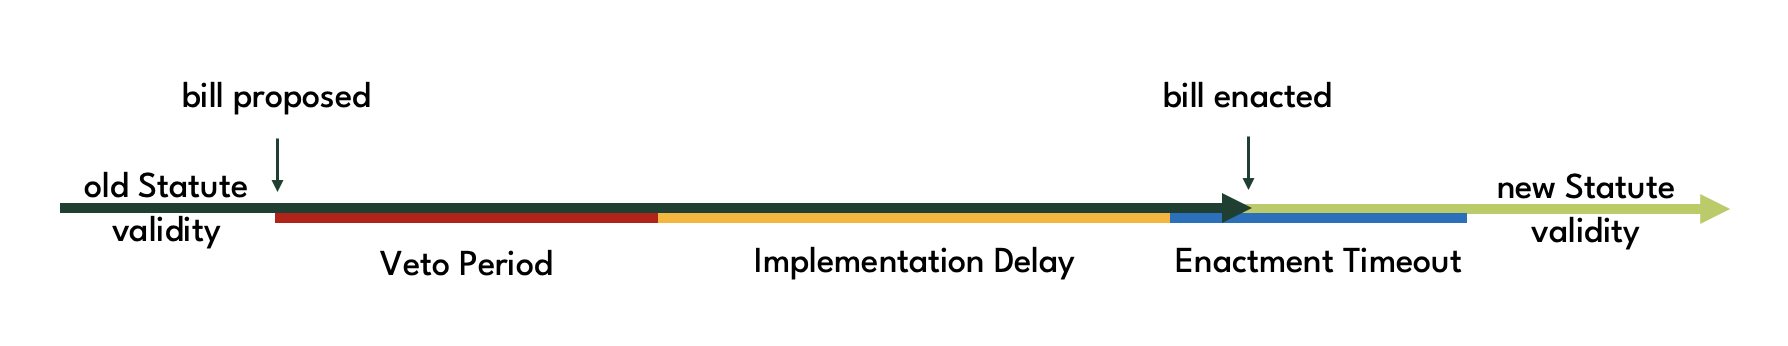
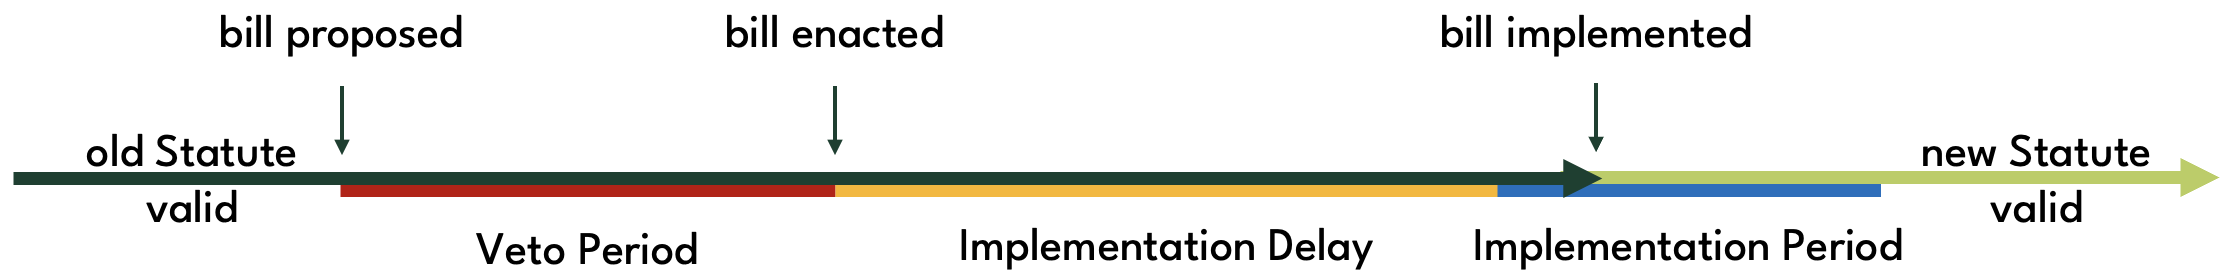
terminology updates

diff --git a/docs/technical-manual/announcers.md b/docs/technical-manual/announcers.md
@@ -10,9 +10,9 @@ sidebar_position: 381
 
 Announcer Prices are used to update the **Oracle price**. Each such update requires a minimum of **M-of-N** Announcer Price announcements from distinct Announcers that have been **approved** by governance.
 
-Announcers are also referred to as **Atom Announcers** because they are designed to announce a single [atom](https://chialisp.com/chialisp-primer/intro/#atoms) value. The atom value is stored in the ATOM_VALUE curried arg of the Announcer puzzle. In the case of Circuit protocol, the atom value is the Announcer Price.
+Announcers are also referred to as **Atom Announcers** because they are designed to announce a single [atom](https://chialisp.com/chialisp-primer/intro/#atoms) value. The atom value is stored in the `VALUE` curried arg of the Announcer puzzle. In the case of Circuit protocol, the atom value is the Announcer Price.
 
-Data providers must update the Announcer Price regularly. Otherwise the Announcer Price can **expire**, and the Announcer gets penalized. An Announcer Price is said to be expired if the TIMESTAMP_EXPIRES curried arg lies in the past. TIMESTAMP_EXPIRES is updated to the current time plus DELAY whenever the Announcer Price is updated. DELAY is a curried arg that can be set to any value less than or equal to [**Announcer Price TTL**](../../user-guide/price-oracle) by the Announcer's data provider. The Announcer Price is best updated using the mutate operation. It is best practice to also update the Announcer Price as part of a configure operation.
+Data providers must update the Announcer Price regularly. Otherwise the Announcer Price can **expire**, and the Announcer gets penalized. An Announcer Price is said to be expired if the `TIMESTAMP_EXPIRES` curried arg lies in the past. `TIMESTAMP_EXPIRES` is updated to the current time plus `VALUE_TTL` whenever the Announcer Price is updated. `VALUE_TTL` is a curried arg that can be set to any value less than or equal to [**Announcer Price TTL**](../../user-guide/price-oracle) by the Announcer's data provider. The Announcer Price is best updated using the mutate operation. It is best practice to also update the Announcer Price as part of a configure operation.
 
 
 ## Governance considerations
@@ -89,8 +89,8 @@ State variables (curried args) that can be updated in this way are:
 * ```INNER_PUZZLE_HASH```: the inner puzzle determines how the Announcer can be spent
 * ```APPROVED```: indicates whether the Announcer is approved
 * ```DEPOSIT```: the amount of the Announcer coin, which is used as a deposit that can be slashed under certain circumstances
-* ```DELAY```: number of seconds for which an updated price is valid. used to calculate the expiry timestamp, TIMESTAMP_EXPIRES <!--(TODO: rename to TTL)-->
-* ```ATOM_VALUE```: XCH/USD price published by data provider
+* ```VALUE_TTL```: number of seconds for which an updated price is valid. used to calculate the expiry timestamp, `TIMESTAMP_EXPIRES`
+* ```VALUE```: atom value to be announced. an integer representing the XCH/USD market price
 
 Changing the inner puzzle hash can be used to transfer the Announcer.
 
@@ -98,7 +98,7 @@ An approved Announcer can be unilatally disapproved by its data provider. Before
 
 The **deposit** is the amount of the Announcer coin. In case of an approved Announcer, the data provider must keep the deposit at or above the **Minimum Deposit**. The deposit can be slashed by keepers under certain circumstances. See [penalize](../announcers#penalize) for more details. The configure operation allows data providers to increase or decrease the deposit. Since the deposit is slashable, it is generally recommended to not exceed the Minimum Deposit by a large amount. However, a small excess on top of the Minimum Deposit can reduce costs for well-behaved Announcers as it can be used to pay for transaction fees, making a separate fee coin spend unnecessary. If governance votes to increase the Minimum Deposit, data providers should top up their deposit in a timely manner to avoid getting penalized.
 
-The **Announcer Price TTL** Statute indicates how long an Announcer Price that's just been updated may be valid for at most. The actual validity period of an Announcer is stored in the ```DELAY``` curried arg. In practice, the only reason why an Announcer would use a shorter than necessary validity period is in case of a governance vote to reduce the Announcer Price TTL. This allows Announcers to prepare for the new Statute value ahead of time and avoid getting penalized for an expired Announcer Price upon enactment of the reduced Announcer Price TTL.
+The **Announcer Price TTL** Statute indicates how long an Announcer Price that's just been updated may be valid for at most. The actual validity period of an Announcer's price is stored in the ```VALUE_TTL``` curried arg. In practice, the only reason why an Announcer would use a shorter than necessary validity period is in case of a governance vote to reduce the Announcer Price TTL. This allows Announcers to prepare for the new Statute value ahead of time and avoid getting penalized for an expired Announcer Price upon implementation of the reduced Announcer Price TTL.
 
 If desired, the Announcer Price may also be updated in a configure operation.
 
@@ -109,8 +109,8 @@ Lastly, it is possible to **melt** an unapproved Announcer using the configure o
 * ```INNER_PUZZLE_HASH```: can be set to desired value
 * ```APPROVED```: can be set to nil
 * ```DEPOSIT```: see amount
-* ```DELAY```: can be set to any value smaller than Announcer Price TTL. <!--(TODO: rename to TTL)-->
-* ```ATOM_VALUE```: can be set to any atom value. should be XCH/USD market price
+* ```VALUE_TTL```: can be set to any value smaller than Announcer Price TTL
+* ```VALUE```: atom value to be announced. an integer representing the XCH/USD market price
 * ```MIN_DEPOSIT```: can be set to any value greater than Minimum Deposit
 * ```COOLDOWN_START```: set by puzzle
 * ```TIMESTAMP_EXPIRES```: set by puzzle
@@ -152,10 +152,10 @@ An Announcer is penalized by applying the **Penalty Factor** to the Announcer's 
 
 Keepers can penalize approved Announcers in the following circumstances:
 * Announcer Price is expired, ie current time is greater than ```TIMESTAMP_EXPIRES```
-* ```DELAY``` is greater than Announcer Price TTL Statue <!--(TODO: rename DELAY to TTL?)-->
+* ```VALUE_TTL``` is greater than Announcer Price TTL Statue
 * ```DEPOSIT``` is smaller than Minimum Deposit
 
-The second and third cases above are designed to incentivize data providers to keep the configuration of their respective Announcers in line with Announcer Price TTL and Minimum Deposit whenever these Statutes are updated by governance. In practice, it is recommended that Announcer configurations are updated well in advance of Statute enactment, in order to minimize the risk of missing the dealine and incurring penalties.
+The second and third cases above are designed to incentivize data providers to keep the configuration of their respective Announcers in line with Announcer Price TTL and Minimum Deposit whenever these Statutes are updated by governance. In practice, it is recommended that Announcer configurations are updated well in advance of the Implementation Period, in order to minimize the risk of missing the dealine and incurring penalties.
 
 A penalization can occur at most once per **Penalty Interval** (STATUTE_ANNOUNCER_PENALTY_INTERVAL_MINUTES). Since keepers will be competing to penalize Announcers, it can generally be expected that a penalty is applied at the earliest possible point in time in each Penalty Interval, and that therefore the deposit of a penalizable Announcer will decline at an exponential rate according to the Penalty Factor.
 
@@ -189,8 +189,8 @@ Mutable state:
 * ```INNER_PUZZLE_HASH```
 * ```APPROVED```
 * ```DEPOSIT```: amount of the Announcer coin
-* ```DELAY```: <!--TODO: rename to expiration?-->
-* ```ATOM_VALUE```: value to be announced. must be an atom
+* ```VALUE_TTL```: amount of time before an updated value expires
+* ```VALUE```: atom value to be announced. an integer representing the XCH/USD market price
 * ```MIN_DEPOSIT```: minimum amount of Announcer coin that should be maintained
 * ```COOLDOWN_START```: timestamp of when a cooldown was initiated. 0 if not in cooldown
 * ```LAST_PENALTY_INTERVAL```: <!--TODO-->
@@ -202,8 +202,8 @@ Announcers have an enforced eve state in which the following curried args are al
 
 * ```APPROVED```
 * ```DEPOSIT```
-* ```DELAY```
-* ```ATOM_VALUE```
+* ```VALUE_TTL```
+* ```VALUE```
 * ```COOLDOWN_START```
 * ```LAST_PENALTY_INTERVAL```
 * ```TIMESTAMP_EXPIRES```

diff --git a/docs/user-guide/governance.md b/docs/user-guide/governance.md
@@ -33,11 +33,13 @@ In addition to Stability Fee and Savings Rate, governance is able to update a fe
 
 ## Governance process
 
-Circuit protocol governance is conducted fully on-chain. Any CRT token holder can propose to change a Statute by locking up CRT tokens with the governance puzzle, specifying the Statute to be changed and the proposed new value and Constraints. For a proposal to be valid, the number of CRT locked up in this manner must exceed the **Proposal Threshold**.
+Circuit protocol governance is conducted fully on-chain via CRT coins in **governance mode**. A CRT holder can propose to change a Statute by locking up CRT in a **proposal coin**. The CRT amount must exceed the **Proposal Threshold**. Making a proposal also requires a **Proposal Fee** to be paid. The proposal coin contains a **bill**, which either specifies the Statute to be changed and the proposed new value and Constraints, or a set of custom conditions to be announced by Statutes.
 
 ![Governance timeline](./../../static/img/Governance_timeline_diagram.png)
 
-Once proposal has been made, a **Veto Period** starts during which other CRT holders have the opportunity to veto the proposal. A veto needs to be backed by more CRT than the original proposal to be successful. If the proposal does not get vetoed, the new Statute can be implemented ('enacted') after the **Implementation Delay** has passed. A Statute must be implemented within the **Enactement Period** or otherwise lapses.
+Once a proposal has been made, a **Veto Period** starts during which other CRT holders have the opportunity to veto the proposal. A veto succeeds if it is backed by more CRT than the original proposal. If the bill has not been vetoed by the end of the Veto Period, it is referred to as **enacted**. Once the **Implementation Delay** has passed, the bill can be **implemented**. Implementation replaces the existing Statute in the Statutes singleton with the bill, or, in the custom conditions case, announces the bill's value. If the bill is not implemented within the **Implementation Period** it **lapses**. A bill can be **reset**, i.e. cancelled, by the proposer at any time as long as it has not been implemented yet.
+
+Once all governance operations have concluded, governance mode can be exited subject to a **Governance Cooldown** period.
 
 ## Constraints
 
@@ -56,7 +58,7 @@ Constraints are an important safety measure, as they prevent sudden Statute chan
 
 The Proposal Threshold protects the protocol against spam proposals.
 
-A proposal can be blocked if within the Veto Period the proposal is vetoed by an amount of CRT larger than is backing the proposal. Once the Veto Period has passed without a successful veto, the protocol waits until the Implementation Delay period has passed before implementing ('enacting') the new Statute value (including any changes to the corresponding Constraints).
+A proposal can be blocked if within the Veto Period the proposal is vetoed by an amount of CRT larger than is backing the proposal. Once the Veto Period has passed without a successful veto, the protocol waits until the Implementation Delay period has passed before implementing the new Statute value (including any changes to the corresponding Constraints).
 
 The Implementation Delay gives users time to withdraw their assets from the protocol in an orderly manner if they are unhappy with the changes made by the proposal. In particular, it protects users from a malicious governance takeover in which an attacker secretly accumulates a CRT stake large enough to make a proposal that cannot be vetoed. As governance takeovers are in general impossible to detect in advance, users of the protocol should keep in mind that a Statute may change to a value unacceptable to them after the Implementation Delay has passed. For example, a borrower may want to ensure that they can repay their loan within the Implementation Delay period for relevant Statutes.
 
@@ -73,7 +75,15 @@ Protocol users should consider whether they are comfortable with Statutes and Co
 For example, consider a user who borrows BYC at an 8% Stability Fee to invest in a fund that offers monthly redemptions. Assume the user expects the fund to deliver a return of 10% per annum in any given month. If the Stability Fee has a Veto Period and Implementation Delay of one week each, the borrower could not be certain what the SF is going to be in the last two weeks before they have an opportunity to redeem from the fund and repay their loan. Unless they have other sources of capital to repay the BYC loan after two weeks if governance changes the SF to 12% or more, they cannot protect themselves against their investment making a loss. If on the other hand the fund offered weekly redemptions, the borrower could always exit the fund and repay their BYC debt on time before the new SF is effective.
 
 ## Statutes
-* **Enactment Timeout**
-    * Statute index: 34
-    * Statute name: STATUTE_ENACTMENT_TIMEOUT_SECONDS
-    * considerations: should be long enough to allow manual enactment in a low-fee period. should be short enough to avoid attacks in which successful proposals are kept lingering and forgotten about only to be enacted unexpectedly in a changed environment.
+* **Proposal Fee**
+    * Statue index: 40
+    * Statute name: `STATUTE_GOVERNANCE_BILL_PROPOSAL_FEE_MOJOS`
+    * considerations: should be big enough to prevent spam proposals. should be small enough to shut out all but the largest CRT holders from participation in governance processes.
+* **Implementation Period**
+    * Statute index: 41
+    * Statute name: `STATUTE_GOVERNANCE_IMPLEMENTATION_INTERVAL`
+    * considerations: should be long enough to allow manual implementation in a low-fee period. should be short enough to avoid attacks in which successful proposals are kept lingering and forgotten about only to be implemented unexpectedly in a changed environment.
+* **Governance Cooldown**
+    * Statute index: 42
+    * Statute name: `STATUTE_GOVERNANCE_COOLDOWN_INTERVAL`
+    * considerations: should be long enough to disincentivise mindless activations of governance mode. should be short enough to not unduly disincentivise participation in governance.

diff --git a/docs/technical-manual/governance.md b/docs/technical-manual/governance.md
@@ -8,7 +8,7 @@ sidebar_position: 390
 
 Governance coins are CRT CAT singletons with the [governance.clsp](https://github.com/circuitdao/puzzles/blob/main/circuit_puzzles/governance.clsp) puzzle as their inner puzzle. Governance coins are created from standard CRT coins on an ad hoc basis.
 
-Governance can change all Statutes with a non-negative index. Governance is conducted by proposing, and vetoing or enacting, **bills**. A bill specifies exactly one Statute to be changed, its proposed new value, and the proposed new Constraints. This is also referred to as the **bill proper**.
+Governance can change all Statutes with a non-negative index. Governance is conducted by proposing, vetoing or implementing **bills**. A bill specifies exactly one Statute to be changed, its proposed new value, and the proposed new Constraints. This is also referred to as the **bill proper**.
 
 ```
 bill_proper = (
@@ -29,7 +29,7 @@ BILL =  ((veto_period . implementation_delay) bill_proper)
 
 There are two different modes governance coins can be in, **proposal mode** and **veto mode**. A governance coin is in proposal mode if a propose operation was performed on it and ```BILL``` is not nil. Otherwise the governance coin is in veto mode.
 
-A veto operation can be performed if the time that has passed since the proposal was created is less than the the Veto Period. Similarly, a proposal can be enacted only if both Veto Period and Implementation Delay have passed, and only as long as the **Enactment Period** has not ended. See the [governance process section](../../user-guide/governance#governance-process) in the User Guide for an illustration.
+A veto operation can be performed if the time that has passed since the proposal was created is less than the the Veto Period. Similarly, a proposal can be implemented only if both Veto Period and Implementation Delay have passed, and only as long as the **Implementation Period** has not ended. See the [governance process section](../../user-guide/governance#governance-process) in the User Guide for an illustration.
 
 The owner of a governance coin can disable governance mode and get back a standard CRT coin by having the inner layer inner puzzle output a ```CREATE_COIN``` conditions with nil for its puzzle hash.
 
@@ -45,7 +45,7 @@ Owner operations:
 * **propose**: - puzzle: [governance_propose_bill.clsp](https://github.com/circuitdao/puzzles/blob/main/circuit_puzzles/programs/governance_propose_bill.clsp)
 * **reset**: - puzzle: [governance_reset_bill.clsp](https://github.com/circuitdao/puzzles/blob/main/circuit_puzzles/programs/governance_reset_bill.clsp)
 * **announce veto**: - puzzle: [governance_veto_announcement.clsp](https://github.com/circuitdao/puzzles/blob/main/circuit_puzzles/programs/governance_veto_announcement.clsp)
-* **enact**: - puzzle: [governance_enact_bill.clsp](https://github.com/circuitdao/puzzles/blob/main/circuit_puzzles/programs/governance_enact_bill.clsp)
+* **implement**: - puzzle: [governance_implement_bill.clsp](https://github.com/circuitdao/puzzles/blob/main/circuit_puzzles/programs/governance_implement_bill.clsp)
 
 Governance operations:
 * **veto**: - puzzle: [governance_veto_bill.clsp](https://github.com/circuitdao/puzzles/blob/main/circuit_puzzles/programs/governance_veto_bill.clsp)
@@ -56,15 +56,15 @@ If a governance coin has ```BILL``` equal to nil, then the only operation that w
 
 ![Governance operations when BILL is nil](./../../static/img/Governance_bill_nil_diagram.png)
 
-When ```BILL``` is not nil, it is always possible to either propose, reset or veto. If the parent coin of the coin to be spent was a governance coin, then it is also possible to perform an announce veto or enact operation.
+When ```BILL``` is not nil, it is always possible to either propose, reset or veto. If the parent coin of the coin to be spent was a governance coin, then it is also possible to perform an announce veto or implement operation.
 
 ![Governance operations when BILL is not nil](./../../static/img/Governance_bill_not_nil_diagram.png)
 
-Combining the two diagrams it is clear that a bill can only be enacted if it was previously proposed. This prevents the creation of an eve governance coin with bill curried in and subsequent enactment without a prior proposal spend. Having a proposal spend is crucial as they place certain constraints on when enactment can take place, which for example ensures that there is veto period as defined in Statutes.
+Combining the two diagrams it is clear that a bill can only be implemented if it was previously proposed. This prevents the creation of an eve governance coin with bill curried in and subsequent implementation without a prior proposal spend. Having a proposal spend is crucial as they place certain constraints on when implementation can take place, which for example ensures that there is veto period as defined in Statutes.
 
 ![Governance eve spend diagram](./../../static/img/Governance_eve_spend_diagram.png)
 
-In the diagram above, a governance eve coin is shown at the top, with non-eve governance coins one level below. Enacting a bill is only possible if a propose operation was previously performed, possibly with one or more announce veto operations in between, which leave the proposed bill proper unchange and only affect the associated proposal periods.
+In the diagram above, a governance eve coin is shown at the top, with non-eve governance coins one level below. Implementing a bill is only possible if a propose operation was previously performed, possibly with one or more announce veto operations in between, which leave the proposed bill proper unchange and only affect the associated proposal periods.
 
 ### Propose
 
@@ -110,9 +110,9 @@ When an announce veto operation is performed on a proposal coin, the proposal pe
 * ```BILL```: proposal periods get updated if Veto coin is in proposal mode
 * ```INNER_PUZZLE_HASH```: can be changed
 
-### Enact
+### Implement
 
-Once the Implementation Deplay has passed, the proposed bill can be enacted, i.e. the corresponding Statute updated as specified by the bill.
+Once the Implementation Deplay has passed, the proposed bill can be implemented, i.e. the corresponding Statute updated in the Statutes singleton as specified by the bill.
 
 ![Governance enact coin spends diagram](./../../static/img/Governance_enact_coin_spends_diagram.png)
 
@@ -153,7 +153,7 @@ The amount of a governance coin depends on the amount of backing a proposal or v
 
 By virtue of being CATs, governance coins require a standard CAT lineage proof to be spent. That governance coins are also custom singletons is enforeced by the governance mod by allowing only one ```CREATE_COIN``` condition to pass the ```filter-condition``` function.
 
-Announce veto and enact operations both require that the coin they are being applied to had a governance coin as parent. This means that an eve governance coin cannot be spent by either operation. Reset and veto operations can be applied to an eve governance coin irrespective of the value of ```BILL```, but they both set ```BILL``` to nil. This is fine because a nil bill cannot be enacted. Effectively, the resulting governance coin can be thought of as an eve coin in its own right. This leaves propose as the only operation that can spend an eve governance coin.
+Announce veto and implement operations both require that the coin they are being applied to had a governance coin as parent. This means that an eve governance coin cannot be spent by either operation. Reset and veto operations can be applied to an eve governance coin irrespective of the value of ```BILL```, but they both set ```BILL``` to nil. This is fine because a nil bill cannot be implemented. Effectively, the resulting governance coin can be thought of as an eve coin in its own right. This leaves propose as the only operation that can spend an eve governance coin.
 
 
-If a governance coin has ```BILL``` equal to nil, only propose, announce veto and enact operations can be performed.  not equal to nil, then only propose, reset and veto operations can be performed on it.
+If a governance coin has ```BILL``` equal to nil, only propose, announce veto and implement operations can be performed.  not equal to nil, then only propose, reset and veto operations can be performed on it.

diff --git a/docs/user-guide/liquidation.md b/docs/user-guide/liquidation.md
@@ -23,7 +23,7 @@ Borrowers should keep in mind that Stability Fee accrual slowly increases debt o
 
 ## Liquidation Penalty
 
-The protocol incentivizes borrowers to keep their vaults in a sufficiently overcollateralized state by charging a **Liquidation Penalty** (LP) whenever a vault gets liquidated. The Liquidation Penalty is a percentage of the debt owed to the vault at the point when the liquidation is triggered. The sum of debt and Liquidation Penalty is the **total debt**.
+The protocol incentivizes borrowers to keep their vaults in a sufficiently overcollateralized state by charging a **Liquidation Penalty** (LP) whenever a vault gets liquidated. The Liquidation Penalty is a percentage of the debt owed to the vault at the point when the liquidation is triggered, and gets added to the existing debt.
 
 :::warning
 
@@ -35,10 +35,10 @@ When a vault gets liquidated, borrowers are charged a **Liquidation Penalty**, w
 
 The liquidation process consists of three steps:
 1. Liquidation gets triggered by a [keeper](../../technical-manual/advanced-topics/keepers). The vault is seized by the protocol
-2. Keepers bid on collateral in an attempt to recover the vault's total debt
-3. Once the total debt is recovered, the vault is released back to the borrower
+2. Keepers bid on collateral in an attempt to recover the vault's debt
+3. Once the debt is recovered, the vault is released back to the borrower
 
-If a liquidation auction fails to recover the total debt, it will eventually time out and can be restarted. This continues until either the total debt does get recovered or all collateral has been sold off. In the former case, the vault and any remaining collateral in it is released back to the borrower. In the latter case, the protocol is said to incur **bad debt**. Bad debt can be extinguished by melting an equivalent amount of BYC from the [Treasury](../treasury).
+If a liquidation auction fails to recover all debt, it will eventually time out and can be restarted. This continues until either all debt does get recovered or all collateral has been sold off. In the former case, the vault, including any remaining collateral, is released back to the borrower. In the latter case, the protocol is said to incur **bad debt**. Bad debt can be [recovered](../../technical-manual/bad-debt) by melting an equivalent amount of BYC from the [Treasury](../treasury).
 
 ![Liquidation process](./../../static/img/Liquidation_diagram.png)
 

diff --git a/docs/technical-manual/statutes.md b/docs/technical-manual/statutes.md
@@ -109,11 +109,11 @@ Passing custom conditions is required in the following situations:
 * Approving or disapproving an Announcer (bitmask: ```010-000```)
 * Launching a Recharge Auction coin (bitmask: ```010-010```)
 
-Since these are one-off operations specific to certain coins, there is no point in storing information pertaining to these operations in Statutes. Instead, custom conditions are included in their respective bills, and, upon enactment, get announced by Statutes.
+Since these are one-off operations specific to certain coins, there is no point in storing information pertaining to these operations in Statutes. Instead, custom conditions are included in their respective bills, and, upon implementation, get announced by Statutes.
 
 The only custom condition type required by the protocol is ```SEND_MESSAGE```, which is enforced by the Statutes mutation operation.
 
-The bitmasks used by custom announcements cannot be coin-specific since both sending coin (Statutes) as well as receiving coins may be spent before the corresponding governance proposal is enacted. In the case of Announcers, even the state of the coin may change before enactment, which means that the puzzle-to-none bitmask should be used when (dis)approving Announcers. That the state of Statutes may change is uncritical as the keeper enacting a custom condition bill can provide the provide the Statutes state in form of an inner puzzle hash to the receiving coin in the enactment spend.
+The bitmasks used by custom announcements cannot be coin-specific since both sending coin (Statutes) as well as receiving coins may be spent before the corresponding governance proposal is implemented. In the case of Announcers, even the state of the coin may change before implementation, which means that the puzzle-to-none bitmask should be used when (dis)approving Announcers. That the state of the Statutes singleton itself may change is not an issue as the Statutes state can be provided in form of an inner puzzle hash to the receiving coin in the implementation spend.
 
 This operation announces all Statutes, Statutes Price Info, and the custom condition(s) as per the corresponding governance proposal.
 

diff --git a/docs/glossary.md b/docs/glossary.md
@@ -44,7 +44,7 @@ The glossary assumes familiarity with basic concepts of [Chia blockchain](https:
 
 **Driver.** An off-chain program used to construct coins spends and spend bundles of Chia coins. Drivers are part of the backend of the Circuit dapp. Drivers for Chialisp are often written in Python, as shown in this [tutorial](https://www.youtube.com/watch?v=dGohmAc658c).
 
-**Enactment.** The act of executing a governance proposal on-chain. Requires a final spend of the governance coin that contains the proposed bill. The proposed bill becomes effective immediately upon enactment.
+**Implementation.** The act of implementing a bill. This replaces the existing value and Constraints of a Statute with the proposed bill. The bill becomes effective in the first block after the implementation spend.
 
 **Enforced state.** A coin state that is fully or partially enforced by the coin's puzzle mod. Typically used in the context of eve coins.
 

diff --git a/docs/technical-manual/advanced-topics/design-decisions.md b/docs/technical-manual/advanced-topics/design-decisions.md
@@ -10,7 +10,7 @@ Numerous design decisions had to be made in creating Circuit protocol. These typ
 
 ## Scalability
 
-In terms of scalability, the protocol is designed to allow operations to occur independently of each other in the same block. Coins can access the protocol's global state by asserting Statute announcements from the Statutes singleton. However, like any other application running on Chia, Circuit protocol is limited by the block size limit of 11 billion in [costs](https://docs.chia.net/coin-set-costs/). Users should keep this in mind, as it may affect how quickly they can take certain actions or the amount of transactions fees they have to pay to get priority over others. For example, if ther is a sharp increase in the Stability Fee, many borrowers may want to repay their loans. It is therefore advisable for borrowers to follow governance votes, and to consider repaying loans during the Implementation Delay period already instead of waiting until the new Stability Fee gets enacted.
+In terms of scalability, the protocol is designed to allow operations to occur independently of each other in the same block. Coins can access the protocol's global state by asserting Statute announcements from the Statutes singleton. However, like any other application running on Chia, Circuit protocol is limited by the block size limit of 11 billion in [costs](https://docs.chia.net/coin-set-costs/). Users should keep this in mind, as it may affect how quickly they can take certain actions or the amount of transactions fees they have to pay to get priority over others. For example, if there is a sharp increase in the Stability Fee, many borrowers may want to repay their loans. It is therefore advisable for borrowers to follow governance votes, and to consider repaying loans during the Implementation Delay period already instead of waiting until the new Stability Fee gets implemented.
 
 Users should also be aware of how market conditions may affect their ability to interact with the protocol. For example, a sharp drop in the XCH/USD price may lead to multiple liquidations of collateral vaults. Since keepers are paid a generous incentive to trigger and bid in liquidation auctions, Chia block space might become very expensive in such a scenario. This might make it uneconomical, espcially for smaller users, to interact with the protocol for some time. In a worst case situation, this could mean that there will be cascading liquidations because borrowers cannot get transactions processed to repay loans or top-up collateral. Again, this can be mitigated by monitoring the Oracle Price and using the Oracle Price Delay period to manage one's vaults before a Statutes Price drop becomes effective.
 